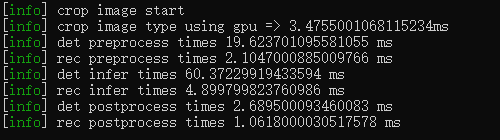
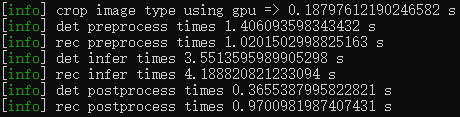
test time with warmup

Changed region(s): [[0.0, 0.0, 1.0, 0.9487], [0.5783, 0.0513, 0.6087, 0.1026]]

diff --git a/src/det.cpp b/src/det.cpp
@@ -27,7 +27,7 @@ namespace OCR {
         return m_options.MAX_DIMS_[2] * m_options.MAX_DIMS_[3];
     }
 
-    void TextDetect::Model_Infer(const cv::cuda::GpuMat& gpuImg, vector<vector<vector<int>>>& boxes, vector<double>& times) {
+    void TextDetect::Model_Infer(const cv::cuda::GpuMat& gpuImg, vector<vector<vector<int>>>& boxes, vector<double>* times) {
 
         ////////////////////// preprocess ////////////////////////
         float ratio_h{}; // = resize_h / h
@@ -48,15 +48,6 @@ namespace OCR {
 
         this->normalize_op_.Run(resizedImg, this->mean_, this->scale_, true);
         this->permute_op_.Run(resizedImg);
-
-        //////////////////////// inference //////////////////////////
-        // void *buffers[2];
-        //  为buffer[0]指针（输入）定义空间大小
-        // float *inBlob = new float[1 * 3 * resize_img.rows * resize_img.cols];
-        // this->permute_op_.Run(&resize_img, inBlob);
-
-        // Let's use a batch size which matches that which we set the
-        // Options.optBatchSize option
 
         size_t batchSize = m_options.optBatchSize;
         auto preprocess_end = std::chrono::steady_clock::now();
@@ -134,23 +125,25 @@ namespace OCR {
         }
 
         cv::imwrite("test.png", showImg);*/
-        auto postprocess_end = std::chrono::steady_clock::now();
         //std::cout << "Detected boxes num: " << boxes.size() << endl;
 
-        std::chrono::duration<float> preprocess_diff = preprocess_end - preprocess_start;
-        std::chrono::duration<float> inference_diff = inference_end - inference_start;
-        std::chrono::duration<float> postprocess_diff = postprocess_end - postprocess_start;
-
-        if (times.empty()) {
-            times.push_back(double(preprocess_diff.count()));
-            times.push_back(double(inference_diff.count()));
-            times.push_back(double(postprocess_diff.count()));
+        if (times != NULL) {
+            auto postprocess_end = std::chrono::steady_clock::now();
+            std::chrono::duration<float> preprocess_diff = preprocess_end - preprocess_start;
+            std::chrono::duration<float> inference_diff = inference_end - inference_start;
+            std::chrono::duration<float> postprocess_diff = postprocess_end - postprocess_start;
+            if (times->empty()) {
+                times->push_back(double(preprocess_diff.count()));
+                times->push_back(double(inference_diff.count()));
+                times->push_back(double(postprocess_diff.count()));
+            }
+            else {
+                times->at(0) += double(preprocess_diff.count());
+                times->at(1) += double(inference_diff.count());
+                times->at(2) += double(postprocess_diff.count());
+            }
         }
-        else {
-            times[0] += double(preprocess_diff.count());
-            times[1] += double(inference_diff.count());
-            times[2] += double(postprocess_diff.count());
-        }
+        
 
     }
 }

diff --git a/src/rec.cpp b/src/rec.cpp
@@ -31,7 +31,7 @@ namespace OCR {
     }
 
     void TextRec::Model_Infer(std::vector<cv::cuda::GpuMat>& img_list, std::vector<pair<vector<string>, double>>& rec_res, vector<int>& idx_map,
-        vector<double>& times) {
+        vector<double>* times) {
         std::chrono::duration<float> preprocess_diff = std::chrono::steady_clock::now() - std::chrono::steady_clock::now();
         std::chrono::duration<float> inference_diff = std::chrono::steady_clock::now() - std::chrono::steady_clock::now();
         std::chrono::duration<float> postprocess_diff = std::chrono::steady_clock::now() - std::chrono::steady_clock::now();
@@ -183,15 +183,17 @@ namespace OCR {
             // cout<<"rec res size is equal to indices size"<<endl;
             idx_map = copy_indices;
         }
-        if (times.empty()) {
-            times.push_back(double(preprocess_diff.count()));
-            times.push_back(double(inference_diff.count()));
-            times.push_back(double(postprocess_diff.count()));
-        }
-        else {
-            times[0] += double(preprocess_diff.count());
-            times[1] += double(inference_diff.count());
-            times[2] += double(postprocess_diff.count());
+        if (times != NULL) {
+            if (times->empty()) {
+                times->push_back(double(preprocess_diff.count()));
+                times->push_back(double(inference_diff.count()));
+                times->push_back(double(postprocess_diff.count()));
+            }
+            else {
+                times->at(0) += double(preprocess_diff.count());
+                times->at(1) += double(inference_diff.count());
+                times->at(2) += double(postprocess_diff.count());
+            }
         }
 
     }

diff --git a/src/ocr.cpp b/src/ocr.cpp
@@ -50,17 +50,35 @@ vector<pair<vector<string>, double>> ocr::Model_Infer(cv::Mat &inputImg, vector<
     std::vector<double> det_times;
     std::vector<double> rec_times;
 
-
     std::vector<std::vector<std::vector<int>>> boxes;
     std::vector<int> idx_map;
     vector<pair<vector<string>, double>> rec_res;
+
+    for (int i = 0; i < 50; ++i) {
+        idx_map.clear();
+        boxes.clear();
+        rec_res.clear();
+
+        this->td->Model_Infer(gpuImg, boxes, NULL);
+        std::vector<cv::cuda::GpuMat> img_list;
+        for (int j = 0; j < boxes.size(); j++) {
+            cv::cuda::GpuMat crop_img;
+            crop_img = Utility::GetRotateCropImage(gpuImg, boxes[j]);
+            img_list.push_back(crop_img);
+        }
+  
+        this->tr->Model_Infer(img_list, rec_res, idx_map, NULL);
+    }
+
+    det_times.clear();
+    rec_times.clear();
 
     for (int i = 0; i < 1000; ++i) {
         idx_map.clear();
         boxes.clear();
         rec_res.clear();
 
-        this->td->Model_Infer(gpuImg, boxes, det_times);
+        this->td->Model_Infer(gpuImg, boxes, &det_times);
         auto cropBegin = std::chrono::steady_clock::now();
 
         std::vector<cv::cuda::GpuMat> img_list;
@@ -78,7 +96,7 @@ vector<pair<vector<string>, double>> ocr::Model_Infer(cv::Mat &inputImg, vector<
         cropDuration += cropEnd - cropBegin;
         // cout<<"finish detect"<<endl;
 
-        this->tr->Model_Infer(img_list, rec_res, idx_map, rec_times);
+        this->tr->Model_Infer(img_list, rec_res, idx_map, &rec_times);
     }
     
     // 根据idx_map调整boxes的顺序， 并删除掉boxes中识别结果为空的box

diff --git a/include/det.h b/include/det.h
@@ -20,7 +20,7 @@ namespace OCR {
     class TextDetect: public Engine<float>{
     public:
         TextDetect() : Engine(){};
-        void Model_Infer(const cv::cuda::GpuMat& img, vector<vector<vector<int>>> &boxes, vector<double> &times);
+        void Model_Infer(const cv::cuda::GpuMat& img, vector<vector<vector<int>>> &boxes, vector<double>* times);
         void Model_Init(std::string_view det_engine_path, std::string_view det_onnx_path);
         uint32_t getMaxOutputLength(nvinfer1::Dims tensorShape) const override;
 

diff --git a/src/main.cpp b/src/main.cpp
@@ -18,8 +18,8 @@ int main(int argc, char *argv[]) {
         argv[1] = "--det_onnx_model";
         argv[2] = "..\\..\\..\\models\\det_model.onnx";
         argv[3] = "--input";
-        //argv[4] = "..\\..\\..\\inputs\\12.jpg";
-        argv[4] = "I:\\img\\cap\\a1.png";
+        argv[4] = "..\\..\\..\\inputs\\12.jpg";
+        //argv[4] = "I:\\img\\cap\\a1.png";
         argv[5] = "--rec_onnx_model";
         argv[6] = "..\\..\\..\\models\\rec_model.onnx";
     }

diff --git a/include/rec.h b/include/rec.h
@@ -29,7 +29,7 @@ public:
     };
     void Model_Init(std::string_view det_engine_path, std::string_view det_onnx_path);
     void Model_Infer(std::vector<cv::cuda::GpuMat> &img_list, std::vector<pair<vector<string>, double>> &rec_res, vector<int> &idx_map,
-                     vector<double> &times);
+                     vector<double>* times);
     uint32_t getMaxOutputLength(nvinfer1::Dims tensorShape) const override;
 
 private:

diff --git a/README.md b/README.md
@@ -20,7 +20,7 @@
 ![image](result.jpg)
 
 In my PC => 12700 + rtx2080.
-The time consumption is like these with no model warmup.
+The time consumption is like these with 50 times model warmup and 1000 times inference.
 ![image](time.png)
 
 # Thanks to
